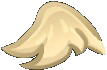
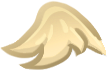
style: adjust wing positioning to touch text and align to bottom

diff --git a/src/components/Services/Services.module.css b/src/components/Services/Services.module.css
@@ -9,8 +9,9 @@
 
 .headerWrap {
   display: flex;
-  align-items: center;
-  gap: 1rem;
+  align-items: flex-end; /* Align to the bottom of the letters */
+  justify-content: center;
+  gap: 0.1rem; /* Make them almost touch the letters */
   margin-bottom: 4rem;
 }
 
@@ -18,6 +19,8 @@
   font-size: 3.5rem;
   color: var(--color-text-dark);
   font-family: var(--font-playfair), serif;
+  line-height: 0.9;
+  margin: 0;
 }
 
 .wingLeft, .wingRight {
@@ -25,7 +28,7 @@
   height: auto;
   object-fit: contain;
   mix-blend-mode: multiply;
-  margin-top: -10px; /* Adjust vertical alignment if needed */
+  margin-bottom: 0; 
 }
 
 .titleMascot {
